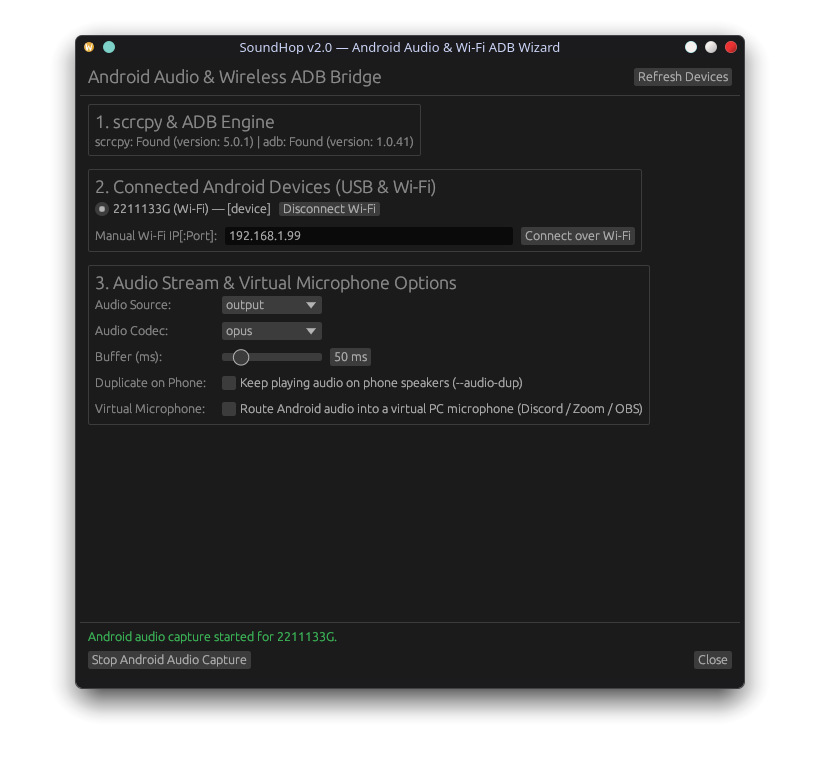
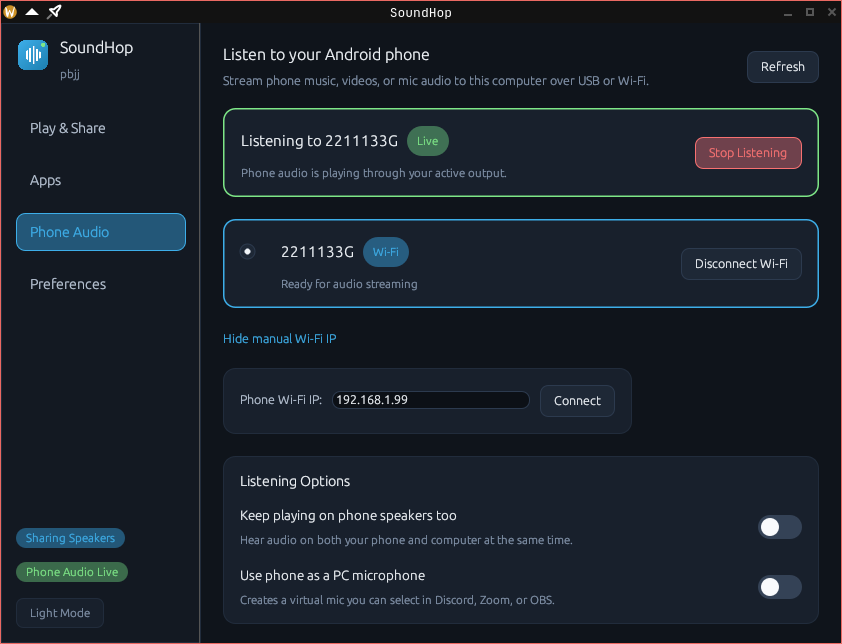
docs(readme): update README and screenshots for v2.1.0 Control Center GUI

diff --git a/README.md b/README.md
@@ -4,77 +4,95 @@
 
 # <img width="48" height="48" alt="com github SoundHop" src="https://github.com/teufortressIndustries/soundhop/blob/main/assets/soundhop.png?raw=true" /> SoundHop
 
-[**Download Latest AppImage (Releases)**](https://github.com/teufortressIndustries/soundhop/releases) • [**Quickstart**](#quickstart) • [**Interactive TUI**](#interactive-terminal-ui-tui) • [**CLI Commands**](#cli-command-reference) • [**Requirements**](#requirements) • [**Building from Source**](#building-from-source) • [**How It Works**](#how-it-works-under-the-hood)
+[**Download Latest AppImage (Releases)**](https://github.com/teufortressIndustries/soundhop/releases) • [**Quickstart**](#quickstart) • [**Control Center & Tray**](#control-center-gui--system-tray) • [**Interactive TUI**](#interactive-terminal-ui-tui) • [**CLI Commands**](#cli-command-reference) • [**Requirements**](#requirements) • [**Building from Source**](#building-from-source) • [**How It Works**](#how-it-works-under-the-hood)
 
 ---
 
-Ever wanted to stream audio from your laptop to your desktop speakers across the room, or beam audio from a workstation to an HTPC hooked up to your sound system?
+Ever wanted to stream audio from your laptop to your desktop speakers across the room, broadcast music to multiple rooms at once, or turn your computer into a wireless speaker for another device or Android phone?
 
 PulseAudio and PipeWire already implement native TCP network streaming modules (`module-native-protocol-tcp` and `module-tunnel-sink`), but setting them up by hand is tedious:
 - Manually looking up peer LAN IP addresses and remembering raw `pactl load-module` arguments.
-- Handling firewall rules (`4713/tcp`, `47777/udp`).
+- Handling firewall rules (`4713/tcp`, `47777/udp`, mDNS `5353/udp`).
 - Live audio streams not automatically moving over when a tunnel connects.
 - Ghost tunnels and frozen audio when a remote laptop suspends or Wi-Fi drops.
 
-**SoundHop** fixes this. It wraps PipeWire and PulseAudio in an automatic, self-healing workflow with zero-configuration LAN discovery, an intuitive desktop system tray for KDE Plasma and GNOME (**the preferred and easiest way to use SoundHop**), and a full-featured CLI (`soundhop`) for headless environments and scripts.
+**SoundHop** fixes this. Written in pure Rust, it wraps PipeWire / PulseAudio (and Windows WASAPI/`cpal`) in an automatic, self-healing workflow with zero-configuration LAN discovery, a unified **Control Center GUI** (`soundhop gui`) paired with a native **desktop system tray** (`soundhop tray`), a live **Terminal UI** (`soundhop tui`), and a full-featured **CLI** (`soundhop`) for headless environments and scripts.
 
 ---
 
 ## Quickstart
 
-The primary and recommended way to use SoundHop is through the native desktop system tray widget. It runs seamlessly on KDE Plasma, GNOME, and other Linux desktop environments.
+The primary and recommended way to use SoundHop is through the **Control Center GUI** and **native desktop system tray**, which run seamlessly on KDE Plasma, GNOME, and other Linux desktop environments (as well as Windows 10/11).
 
 ### 1. Launch SoundHop
 Download and run the standalone **[SoundHop AnyLinux AppImage](https://github.com/teufortressIndustries/soundhop/releases)** (no installation, host libraries, or FUSE required — works on glibc, musl, and non-FHS distros) or run:
 ```bash
-soundhop tray
+soundhop gui
 ```
-*(Or launch **SoundHop** directly from your desktop application launcher)*.
+*(Or launch **SoundHop** directly from your desktop application launcher. On first run, a guided 3-step onboarding wizard helps you set your device name, speaker sharing role, firewall rules, and login autostart. Running `soundhop gui` automatically ensures the background system tray & daemon are running.)*
 
 ### 2. Receiver (e.g. your PC or sound system with good speakers)
-Click the SoundHop tray icon and check **Share this device's speakers**.
+Open **Play & Share** in the Control Center (or click the SoundHop tray icon) and enable **Share this device's speakers** (or **Share My Speakers** in the tray).
 
 ### 3. Sender (e.g. your laptop)
-Click the SoundHop tray icon, hover over **Play audio on**, and select your target machine (e.g. `pbjj (192.168.1.174:4713)`).
+In **Play & Share**, click **Play Here** next to your target speaker (e.g. `pbjj`), or open the tray menu and select it under **Play Audio On**.
 Active playback streams (Spotify, Firefox, mpv, games) immediately switch over to the remote speakers.
 
-To stop streaming and restore audio back to local speakers or headphones at any time, click **Play audio on > This device (disconnect)** or **Disconnect remote audio**.
+To stop streaming and restore audio back to local speakers or headphones at any time, click **Disconnect** in the Control Center or select **This Device (Local Speakers)** in the tray menu.
 
-| Sender (Laptop — Fedora KDE) | Receiver (PC — CachyOS KDE) |
+---
+
+## Control Center GUI & System Tray
+
+SoundHop v2.1 introduces the unified **Control Center** (`soundhop gui`) alongside an upgraded **System Tray** (`soundhop tray`) with live RTT latency readouts, status-badged icons, and Dark/Light/System themes.
+
+### Control Center (`soundhop gui`)
+
+| Sender (Laptop — Playing on `pbjj`) | Receiver (PC — Sharing Speakers & Phone Audio) |
 | :---: | :---: |
-| ![SoundHop Tray GUI on Laptop (Fedora KDE)](docs/screenshots/tray-sender-laptop.png) | ![SoundHop Tray GUI on PC (CachyOS KDE)](docs/screenshots/tray-receiver-pc.png) |
-| *Laptop (`nut`) playing audio remotely on `pbjj (192.168.1.174:4713)`* | *PC (`pbjj`) sharing its speakers with **Share this device's speakers** enabled* |
+| ![SoundHop Control Center Playing on Remote Speaker](docs/screenshots/gui-listening-laptop.png) | ![SoundHop Control Center Sharing Speakers](docs/screenshots/gui-sharing-pc.png) |
+| *Laptop (`nut`) streaming to `pbjj` with master volume slider, live wave indicator, and firewall helper* | *PC (`pbjj`) with **Share this device's speakers** active and `Phone Audio Live` status badge* |
 
-### Android Audio Streaming & GUI Settings
+The Control Center is organized into four sidebar views:
+- **Play & Share**: View your active output & master volume/mute bar, connect to one or multiple LAN speakers (**Multiple speakers** multi-room mode with optional local playback), connect manually by IP/hostname, toggle **Share this device's speakers** (with one-click **Allow in Firewall** detection), and switch network microphone pass-through.
+- **Apps**: Switch between **Send all apps** and **Only picked apps** default routing, toggle individual playing apps between remote and local output on the fly, and save permanent rules with **Always Remember**.
+- **Phone Audio**: Stream audio from Android devices over USB or Wi-Fi using official `scrcpy` (installed on-demand in one click, SHA-256 verified), switch USB devices to wireless ADB, connect by manual Wi-Fi IP, optionally keep audio playing on phone speakers, or expose the phone as a virtual PC microphone (`SoundHop_Android_Mic`).
+- **Preferences**: Switch between **Dark**, **Light**, and **System** themes, rename your device, toggle **Auto-connect** and **Start SoundHop when I log in**, manage **Privacy & Pairing** (**Home Wi-Fi**, **PIN-Paired Devices Only**, or **System Audio Cookie**) with a built-in pairing code generator, and expand **Advanced Audio, Network & Diagnostics** for buffer latency presets (`50 ms` / `150 ms` / `300 ms`), ports, live RTT/jitter/dBFS telemetry, and replaying the welcome tour.
 
-SoundHop also provides dedicated GUI dialogs accessible directly from the tray menu:
-
-| Android Audio Capture | Preferences & Audio Buffer Tuning |
+| Phone Audio (`scrcpy` Android Bridge) | Preferences & Privacy Pairing |
 | :---: | :---: |
-| ![Android Audio Capture Window](docs/screenshots/android-audio-capture.png) | ![SoundHop Settings Window](docs/screenshots/settings.png) |
-| *Stream mobile audio via USB or Wi-Fi with configurable codecs, audio sources & latency* | *Configure device identity, buffer latency presets, and LAN security* |
+| ![SoundHop Control Center Phone Audio View](docs/screenshots/android-audio-capture.png) | ![SoundHop Control Center Preferences and Pairing](docs/screenshots/settings.png) |
+| *Live Wi-Fi Android audio capture with manual IP connect, duplicate playback, and virtual PC mic toggles* | *Privacy modes and PIN/PSK device pairing with 12-character code generator* |
 
-- **Capture Android audio...**: Effortlessly stream Android audio directly to your Linux speakers using official `scrcpy` over USB or Wi-Fi. Select your preferred codec (AAC, Opus, FLAC, Raw PCM), audio source (system output, app playback, or mic), and buffer latency.
-- **Settings...**: Customize your broadcast device name, audio port, RFC1918 subnet security, PipeWire buffer latency presets, automatic stream handoff, and scrcpy defaults.
+### System Tray (`soundhop tray`)
+
+| Sender Tray Menu (`nut` → `pbjj`) | Receiver Tray Menu (`pbjj` Sharing) |
+| :---: | :---: |
+| ![SoundHop System Tray Menu on Sender Laptop](docs/screenshots/tray-listening-laptop.png) | ![SoundHop System Tray Menu on Receiver PC](docs/screenshots/tray-sharing-pc.png) |
+| *Green badge & checked `pbjj (12 ms)` under **Play Audio On**, with quick submenus for Apps, Volume, Mic, and Phone Audio* | *Blue badge (`Ready • Sharing my speakers`) showing `Share My Speakers` active and `nut (8 ms)` available* |
+
+- **Dynamic Tray Status Badges**: Color-coded icon badge indicates Idle (no badge), Sharing (blue), Connected (green), Multi-Room (purple), or Error (red).
+- **Quick Controls**: Open the Control Center (`Open SoundHop`), switch speakers or toggle **Multiple Speakers**, route per-app audio, adjust volume/mute, toggle microphone pass-through, or jump straight to **Phone Audio...** and **Preferences...**.
+- **Seamless AppImage Upgrades**: Launching a newer SoundHop AppImage automatically replaces any stale background daemon/tray/GUI instance across versions, updates existing `systemd` user service (`soundhop.service`) and XDG autostart (`soundhop-tray.desktop`) paths to the new AppImage, and shows a confirmation toast in the GUI.
 
 ---
 
 ## Interactive Terminal UI (TUI)
 
-Prefer managing audio from your terminal, running on a headless workstation over SSH, or keeping a live dashboard in a tmux pane? SoundHop v2.0 features a rich terminal interface powered by `ratatui` and `crossterm`:
+Prefer managing audio from your terminal, running on a headless workstation over SSH, or keeping a live dashboard in a tmux pane? SoundHop features a rich terminal interface powered by `ratatui` and `crossterm`:
 
 ```bash
 soundhop tui
 ```
-*(Launching `soundhop` with no arguments in any interactive terminal opens the TUI automatically)*.
+*(Launching `soundhop` with no arguments in any interactive terminal opens the TUI automatically).*
 
 ![SoundHop Interactive Terminal UI (TUI)](docs/screenshots/soundhop-tui.png)
-*SoundHop v2.0 Terminal UI (`soundhop tui`) with live LAN peer discovery, multi-room broadcast selection, active tunnel status, and real-time audio VU meter + network RTT/jitter telemetry.*
+*SoundHop Control Dashboard (`soundhop tui`) with live LAN peer discovery, multi-room selection, active device/privacy status, and real-time RTT/jitter + audio dBFS telemetry.*
 
-- **Tab 1: Discovered Speakers & Multi-Room**: Navigate with arrow keys or `j`/`k`, press `Space` to select multiple speakers for simultaneous multi-room broadcast, `l` to toggle local speakers in sync, and `Enter` to connect or `d` to disconnect.
-- **Tab 2: Per-App Audio Mixer & Persistent Routing**: Route individual applications (`Spotify`, `Firefox`, `mpv`) between remote and local sinks on the fly, or press `p` to save permanent routing rules to `config.toml`.
-- **Tab 3: Network Microphone & Android Bridge**: Toggle bi-directional microphone pass-through (`s` to stream mic, `r` to receive peer mic, `o` to stop) or start/stop Android audio capture (`a`).
-- **Live VU Gauge & Network Telemetry**: Bottom gauge features a high-frequency stereo Peak/RMS VU meter with dBFS readout, and continuous network round-trip time (RTT) and jitter tracking in milliseconds.
+- **Tab 1 (`[1] Speakers`)**: Navigate with arrow keys or `j`/`k`, press `Space` to select multiple speakers for simultaneous multi-room broadcast, `l` to toggle local speakers in sync, `Enter` to connect, `d` to disconnect, `s` to toggle sharing, and `r` to refresh.
+- **Tab 2 (`[2] Apps`)**: Route individual applications (`Spotify`, `Firefox`, `mpv`) between remote and local sinks on the fly, or press `p` to save permanent routing rules to `config.toml`.
+- **Tab 3 (`[3] Phone & Mic`)**: Toggle bi-directional microphone pass-through (`s` to stream mic, `r` to receive peer mic, `o` to stop) or start/stop Android audio capture (`a`).
+- **Audio Level & Connection Health**: Bottom bar displays continuous network round-trip time (RTT) and jitter in milliseconds alongside real-time audio level in dBFS (`+`/`-` for volume, `m` to mute).
 
 ---
 
@@ -87,7 +105,7 @@ Turn on audio sharing:
 ```bash
 soundhop share on
 ```
-*(If you have an active firewall like firewalld or ufw, run `soundhop firewall open`)*.
+*(If you have an active firewall like firewalld or ufw, run `soundhop firewall open`, or run `soundhop setup` for guided first-time setup).*
 
 ### 2. Sender (Laptop / Workstation)
 Connect and pick the target machine:
@@ -109,15 +127,16 @@ Audio falls straight back to your local speakers or headphones without missing a
 
 ---
 
-## What's New in v2.0 (Pure Rust Rewrite)
+## What's New in v2.x (Pure Rust Rewrite & v2.1 Control Center)
 
-SoundHop v2.0 is a ground-up rewrite in pure Rust (`soundhop-core`, `soundhop-gui`, `soundhop-cli`), eliminating the Python & Qt runtime overhead while introducing five flagship capabilities:
+SoundHop v2.x is a ground-up rewrite in pure Rust (`soundhop-core`, `soundhop-gui`, `soundhop-cli`), eliminating Python & Qt runtime overhead while introducing:
 
-1. **Interactive Terminal UI (`soundhop tui` / default when run with no args in a TTY)**: Live `ratatui` dashboard with Multi-Room peer toggles, Per-App Audio Mixer, Mic & Android Bridge controls, and a real-time stereo VU meter + network RTT/jitter bar.
-2. **Multi-Room / Simultaneous Broadcast Audio (`soundhop connect PeerA PeerB --combine --keep-local`)**: Stream audio to multiple LAN speakers at once (plus optionally keep your local speakers playing in sync) via `module-combine-sink` on Linux and multi-peer TCP fan-out on Windows.
-3. **Persistent Per-App Routing Rules (`soundhop route Spotify --save`)**: Save `always_remote` and `always_local` application rules in `config.toml` (`[routing]`) so your music player automatically hops to remote speakers while system alerts or browsers stay local.
-4. **PIN / Pre-Shared Key (PSK) Pairing & HMAC-SHA256 Authentication (`soundhop pair <peer> --pin 123456`)**: Cryptographically sign UDP discovery beacons with HMAC-SHA256 and deterministically synchronize a 256-byte PulseAudio auth cookie across paired machines.
-5. **Real-Time Audio Level Meter & Network Latency / Jitter Telemetry**: Live Peak/RMS/dBFS audio metering and rolling TCP/UDP RTT & jitter (`ms`) tracking in both the TUI and the `egui` Settings dialog.
+1. **Unified Control Center GUI (`soundhop gui`) & Onboarding (v2.1)**: Modern `egui` Control Center with 4 sidebar tabs (**Play & Share**, **Apps**, **Phone Audio**, **Preferences**), Dark/Light/System themes, guided 3-step first-run onboarding, upgraded tray integration, and automatic cross-version AppImage upgrade handoff & autostart/systemd path syncing.
+2. **Interactive Terminal UI (`soundhop tui`)**: Live `ratatui` dashboard with Multi-Room peer toggles, App Mixer & persistent rules, Phone & Mic controls, and real-time audio dBFS + network RTT/jitter telemetry.
+3. **Multi-Room / Simultaneous Broadcast Audio (`soundhop connect PeerA PeerB --combine --keep-local`)**: Stream audio to multiple LAN speakers at once (plus optionally keep your local speakers playing in sync) via `module-combine-sink` on Linux and multi-peer TCP fan-out on Windows.
+4. **Persistent Per-App Routing Rules (`soundhop route Spotify --save`)**: Save `always_remote` and `always_local` application rules (plus `all` vs `selective` default mode) in `config.toml` (`[routing]`).
+5. **Hardened PIN / Pre-Shared Key (PSK) Pairing & HMAC-SHA256 Auth (`soundhop pair`)**: 60,000-iteration PBKDF2-HMAC-SHA256 key derivation, 12-character pairing codes (or 6+ char custom codes), constant-time HMAC-SHA256 signed UDP discovery beacons, `0o600` 256-byte PulseAudio cookie & IPC socket permissions, and SHA-256 verified `scrcpy` tool downloads.
+6. **Real-Time Audio Telemetry & AnyLinux Portability**: Live Peak/RMS/dBFS audio metering, rolling RTT & jitter tracking, and universal AnyLinux AppImages (`quick-sharun` + `uruntime`/DwarFS) running across glibc, musl, non-FHS, and non-FUSE Linux environments.
 
 ---
 
@@ -126,7 +145,7 @@ SoundHop v2.0 is a ground-up rewrite in pure Rust (`soundhop-core`, `soundhop-gu
 | Component | Minimum Version | Notes |
 | :--- | :--- | :--- |
 | **Linux / Windows** | Linux 5.x+ / Windows 10+ | Native static/dynamic Rust binary (`soundhop`) |
-| **Audio Server** | PipeWire 0.3+ / PulseAudio 14+ / WASAPI | `pactl` on Linux; native WASAPI loopback & playback on Windows |
+| **Audio Server** | PipeWire 0.3+ / PulseAudio 14+ / WASAPI | `pactl` on Linux; native WASAPI/`cpal` loopback & playback on Windows |
 | **Rust Toolchain** | `rustc` / `cargo` 1.80+ | Only required when building from source |
 
 ---
@@ -140,81 +159,89 @@ SoundHop v2.0 is a ground-up rewrite in pure Rust (`soundhop-core`, `soundhop-gu
 │                                │                                │                                │
 │  • soundhop daemon             │                                │  • soundhop daemon             │
 │  • module-tunnel-sink          │ ═════════════════════════════► │  • module-native-protocol-tcp  │
-│  • Auto-routes active streams  │      Raw TCP PCM Audio :4713   │  • Subnet ACL (192.168.x.x)    │
+│  • Auto-routes active streams  │      Raw TCP PCM Audio :4713   │  • Subnet ACL / PSK / Cookie   │
 └────────────────────────────────┘                                └────────────────────────────────┘
 ```
 
-1. **Discovery**: Each node runs a tiny background supervisor. When sharing is enabled, it broadcasts a JSON beacon over UDP port `47777` (with automatic mDNS `_soundhop._tcp` fallback). Peers discover each other in under two seconds.
-2. **Audio Transport**: Native PCM audio travels over TCP port `4713`. Sender loads `module-tunnel-sink` specifying `rate=48000 channels=2 format=s16le` to eliminate software resampling degradation.
-3. **Stream Handover**: SoundHop inspects active sink-inputs (`pactl list sink-inputs`) and moves running audio apps onto the remote sink, setting it as default.
-4. **Resilience & Sleep Supervision**: If the receiving device goes to sleep, closes its lid, or drops off Wi-Fi, the supervisor senses TCP timeout, cleanly unloads the dead tunnel, and restores sound to your local output. Once the receiver wakes back up, SoundHop can automatically reconnect.
+1. **Discovery**: Each node runs a lightweight background daemon. It broadcasts a JSON beacon over UDP port `47777` (with automatic mDNS `_soundhop._tcp.local.` fallback) and optionally signs beacons with HMAC-SHA256 when PIN/PSK pairing is enabled.
+2. **Audio Transport**: Native PCM audio travels over TCP port `4713`. On Linux, the sender loads `module-tunnel-sink` specifying `rate=48000 channels=2 format=s16le` to avoid resampling degradation; on Windows, SoundHop uses native WASAPI/`cpal` loopback capture and TCP playback.
+3. **Stream Handover**: SoundHop inspects active sink-inputs (`pactl list sink-inputs`) and moves running audio apps onto the remote sink (respecting `[routing]` rules), setting it as default when configured.
+4. **Resilience & Sleep Supervision**: If the receiving device goes to sleep, closes its lid, or drops off Wi-Fi, the supervisor detects TCP timeout, cleanly unloads the dead tunnel, and restores sound to your local output. Once the receiver wakes back up, SoundHop can automatically reconnect.
 5. **DSP Awareness**: SoundHop checks for active DSP suites like **EasyEffects**, **JamesDSP**, and **NoiseTorch** to warn if virtual sink re-routing could add unintended latency.
 
 ---
 
 ## CLI Command Reference
 
-### Everyday Commands
+### Everyday & GUI Commands
 ```bash
-soundhop status                 # Show current connection, sharing status, discovered peers, and sinks
-soundhop status --json          # Raw JSON output for Waybar, Polybar, or scripts
-soundhop discover               # Scan LAN for online SoundHop nodes
-soundhop connect [name|ip]      # Connect interactively or directly by hostname / IP
-soundhop connect --with-mic     # Connect and enable microphone pass-through
-soundhop connect --host 192.168.1.50 --port 4713
-soundhop disconnect             # Drop remote tunnel and restore local sound output
-soundhop share <on|off|status>  # Enable or disable receiving audio from other devices
-soundhop tray                   # Launch desktop system tray icon (KDE Plasma / GNOME)
+soundhop                        # Open interactive TUI (when run in a terminal)
+soundhop gui                    # Launch Control Center GUI (starts background tray if needed)
+soundhop tray                   # Launch native OS system tray icon & background daemon
 soundhop tui                    # Open interactive terminal UI dashboard
+soundhop setup                  # Guided first-time CLI setup (name, sharing, firewall, service)
+soundhop status                 # Show current connection, sharing status, peers, and telemetry
+soundhop status --json          # Raw JSON output for Waybar, Polybar, or scripts
+soundhop discover               # Scan LAN for online SoundHop nodes (with RTT latency)
+soundhop connect [targets...]   # Connect interactively, by name/IP, or multi-room
+soundhop connect PeerA PeerB --combine --keep-local
+soundhop connect 192.168.1.50:4713 --latency 100 --remember
+soundhop disconnect             # Drop remote tunnel / multi-room group and restore local sound
+soundhop share <on|off|status>  # Enable or disable receiving audio from other devices
+soundhop pair generate          # Generate a random 12-character pairing code
+soundhop pair <peer> --pin CODE # Pair with a peer using a shared PIN/passphrase (6+ chars)
+soundhop pair status            # Show pairing & security mode status (`clear` to reset)
 ```
 
 ### Stream Routing, Mic Pass-Through & Volume Sync
 ```bash
 soundhop apps                   # List active audio applications and stream routing
 soundhop route spotify          # Route Spotify to remote speakers
-soundhop route firefox --local  # Keep Firefox audio playing on local speakers
-soundhop unroute spotify        # Return Spotify to default output
-soundhop mic <on|off|status>    # Toggle or check remote microphone pass-through
+soundhop route spotify --save   # Persist always-remote routing rule in config.toml
+soundhop route firefox --save --local  # Always keep Firefox audio on local speakers
+soundhop unroute spotify        # Return Spotify to local speakers (`--all`, `--remove-rule`)
+soundhop mic <send|receive|off|status> # Toggle or check network microphone pass-through
 soundhop volume                 # Show volume and mute status with remote sync
-soundhop volume 80              # Set output volume to 80% (syncs to remote receiver)
-soundhop volume mute            # Mute output
+soundhop volume 80              # Set output volume to 80% (`0-150`, `+10`, `-10`)
+soundhop volume toggle          # Toggle mute (`mute`, `unmute`, `toggle`)
 ```
 
-### Android Audio Capture (scrcpy)
-Capture and stream audio from Android devices directly to your Linux speakers over Wi-Fi or USB.
+### Android Audio Capture (`scrcpy`)
+Capture and stream audio from Android devices directly to your speakers over Wi-Fi or USB.
 ```bash
-soundhop android                # Interactive setup wizard & device pairing
-soundhop android 192.168.1.99   # Connect directly to a specific phone IP or serial
-soundhop android history        # View paired Android device connection history
-soundhop android clear-history  # Clear device history
+soundhop android wizard         # Open Android Audio Bridge UI (`gui`)
+soundhop android install        # Download & verify standalone official scrcpy + adb (SHA-256)
+soundhop android devices        # List detected Android devices via ADB
+soundhop android wifi           # Switch a plugged-in USB phone to wireless Wi-Fi ADB mode
+soundhop android connect <ip>   # Connect to an Android device over Wi-Fi ADB
+soundhop android start [target] # Start capture (`--source`, `--codec`, `--buffer`, `--as-mic`)
 soundhop android stop           # Stop running audio capture session
-soundhop android status         # Show scrcpy / adb tool paths and active sessions
-soundhop android devices        # List detected Android devices and Android versions
-soundhop android encoders       # List hardware/software audio encoders supported by your phone
-soundhop android wifi           # Switch a plugged-in USB phone to wireless Wi-Fi mode
-soundhop android install        # Download & install standalone official scrcpy (zero-bloat, on-demand)
+soundhop android status         # Show scrcpy / adb tool paths and active session
+soundhop android disconnect     # Disconnect Wi-Fi ADB session
 ```
 
 ### Automation & Services
 ```bash
-soundhop auto <on|off>          # Toggle automatic reconnection to your last paired machine
-soundhop auto pause             # Temporarily pause auto-reconnect (e.g. while on public Wi-Fi)
-soundhop auto resume            # Resume auto-reconnect
-soundhop service install        # Install and enable systemd user unit (soundhop.service)
-soundhop service status         # Check systemd service status
-soundhop service restart        # Restart user daemon
+soundhop auto <on|off|status>   # Toggle or inspect automatic reconnection
+soundhop auto prefer <peer>     # Set preferred auto-connect peer
+soundhop service install        # Install and enable systemd user unit & tray autostart
+soundhop service status         # Check systemd user service status
+soundhop service restart        # Restart user daemon (syncs AppImage path if needed)
+soundhop stop                   # Stop running background daemon and disconnect sessions
+soundhop logs                   # View recent daemon log lines (`-n 100`)
 ```
 
-### Diagnostics & Network
+### Diagnostics, Config & Network
 ```bash
-soundhop doctor                 # Self-test PipeWire/PulseAudio, sockets, pactl, and firewalls
-soundhop bug-report             # Dump sanitized markdown diagnostics for GitHub issues
-soundhop bug-report --open      # Generate report and open pre-filled GitHub issue in browser
-soundhop firewall <open|close|status> # Manage rules for firewalld (Fedora) or ufw (Ubuntu)
+soundhop doctor                 # Self-test audio backend, network, daemon, firewall, and mounts
+soundhop doctor --fix           # Auto-fix orphaned modules, firewall, service & stale mounts
+soundhop bug-report             # Print sanitized markdown diagnostics for GitHub issues
+soundhop firewall <status|open> # Inspect or open rules for firewalld (Fedora) or ufw (Ubuntu)
+soundhop config <show|path|get|set|reset> # View or modify `~/.config/soundhop/config.toml`
 ```
 
 ### Shell Completions
-Tab completion is available for Bash, Zsh, and Fish:
+Tab completion is available for Bash, Zsh, Fish, and PowerShell:
 ```bash
 # Fish (CachyOS / Arch default):
 soundhop completions fish > ~/.config/fish/completions/soundhop.fish
@@ -224,6 +251,9 @@ soundhop completions bash > ~/.local/share/bash-completion/completions/soundhop
 
 # Zsh:
 soundhop completions zsh > ~/.zsh/completion/_soundhop
+
+# PowerShell:
+soundhop completions powershell > soundhop.ps1
 ```
 
 ---
@@ -244,7 +274,7 @@ cargo build --release --workspace
 # Binary is emitted to target/release/soundhop
 ```
 
-### 3. Run unit & integration tests
+### 3. Run formatting, lints, and tests
 ```bash
 cargo fmt --all -- --check
 cargo clippy --workspace --all-targets -- -D warnings
@@ -261,24 +291,36 @@ On non-Arch hosts this automatically builds inside an Arch Linux container using
 
 ## Configuration & Tuning
 
-Configuration is stored in `~/.config/soundhop/config.toml` (and can be edited directly or through `soundhop config set <key> <val>`):
+Configuration is stored in `~/.config/soundhop/config.toml` (and can be edited directly, in the Control Center **Preferences**, or via `soundhop config set <key> <val>`):
 
 ```toml
 [device]
-name = "Fedora-Desktop"          # Display name broadcasted to other devices
+name = "Fedora-Desktop"         # Display name broadcasted to other devices
 
 [sharing]
-enabled = false                 # Whether this device accepts incoming audio
-security = "trusted-lan"        # "trusted-lan" (RFC1918 subnets), "cookie" (auth cookie), or "open"
+enabled = true                  # Whether this device accepts incoming audio
+port = 4713                     # TCP audio port
+security = "trusted-lan"        # "trusted-lan" (Home Wi-Fi), "psk" (PIN-Paired), "cookie", or "open"
 
 [connection]
-auto_connect = true             # Automatically reconnect to last paired device when seen
+auto_connect = true             # Automatically reconnect to preferred peer when online
 disconnect_on_quit = true       # Drop remote tunnel and restore local audio when tray app exits
-latency_ms = 0                  # 0 = automatic default (or 50 for low-latency, 100 balanced, 200 Wi-Fi buffer)
+keep_local_output = false       # Keep local speakers active by default in Multi-Room mode
+# latency_ms = 150              # Optional buffer latency override in ms (50 low, 150 balanced, 300 stable)
+
+[routing]
+default_mode = "all"            # "all" (send all apps) or "selective" (only picked apps)
+always_remote = []              # Apps always routed to remote speakers
+always_local = []               # Apps always kept on local speakers
 
 [discovery]
-port = 47777                    # UDP broadcast discovery port
-mdns = true                     # Enable mDNS fallback browsing
+udp = true                      # UDP broadcast LAN discovery
+mdns = true                     # mDNS (_soundhop._tcp.local.) discovery
+port = 47777                    # UDP discovery port
+
+[ui]
+theme = "dark"                  # "dark", "light", or "system"
+notifications = true            # Desktop connection notifications
 ```
 
 *(SoundHop automatically tracks your hardware outputs and restores audio to your previous default sink on disconnect).*
@@ -307,21 +349,25 @@ mdns = true                     # Enable mDNS fallback browsing
   - Disconnect-on-quit toggle, buffer latency presets, and DSP detection (EasyEffects)
   - Portable AppImage & containerized multi-distro build pipeline
 - [x] **v1.1**:
-  - **Android Support (scrcpy)**: Capture and listen to the audio from your Android devices over USB or Wi-Fi.
-  - **Windows Support (EXPERIMENTAL)**: Experimental support for Windows OS.
+  - **Android Support (`scrcpy`)**: Capture and listen to audio from Android devices over USB or Wi-Fi.
+  - **Windows Support**: Native Windows OS support.
 - [x] **v1.2**:
   - **Per-Application Stream Routing**: Direct specific apps (e.g. Spotify or Firefox) to remote speakers without moving your whole desktop audio.
   - **Microphone Pass-Through**: Stream microphone input back to the sender for remote calls and Discord.
   - **Remote Volume Sync**: Control receiver volume directly from the sender's media keys.
   - **Android Auto-Discovery & History**: ZeroConf mDNS discovery for Android Wireless Debugging and persistent device history for 1-click reconnects.
-- [x] **v2.0 (Current)**:
+- [x] **v2.0**:
   - **Full Rewrite in Rust**: Ground-up rewrite in pure Rust (`soundhop-core`, `soundhop-gui`, `soundhop-cli`).
   - **AnyLinux AppImage**: Universal `quick-sharun` + `uruntime`/DwarFS AppImage supporting glibc, musl, non-FHS distros, and non-FUSE environments.
   - **Interactive Terminal UI**: (`soundhop tui`) using `ratatui` + `crossterm`.
   - **Multi-Room / Broadcast Audio**: `soundhop connect PeerA PeerB --combine --keep-local`.
   - **Persistent Per-App Routing Rules**: `[routing]` in `config.toml` & `soundhop route --save`.
-  - **PIN / PSK**: Pre-Shared Key Pairing & HMAC-SHA256 Authentication (`soundhop pair`).
-  - **Real-Time Audio Telemetry**: Audio Peak, RMS Level Meter & Network RTT, Jitter Telemetry.
+  - **PIN / PSK Pairing & Telemetry**: Pre-Shared Key pairing with HMAC-SHA256 beacons (`soundhop pair`) plus live Peak/RMS/dBFS and RTT/jitter telemetry.
+- [x] **v2.1 (Current)**:
+  - **Unified Control Center GUI (`soundhop gui`)**: Modern `egui` desktop app with Play & Share, Apps, Phone Audio, and Preferences views, Dark/Light/System themes, and guided 3-step first-run onboarding.
+  - **Upgraded System Tray (`soundhop tray`)**: Color-coded status badges, live peer RTT readouts, Multi-Room submenu, and direct Control Center tab launchers.
+  - **Seamless AppImage Upgrade Handoff**: Automatic cross-version daemon/tray/GUI replacement, auto-synced `systemd` unit & XDG autostart AppImage paths with GUI toast feedback, and safe `doctor --fix` mount cleanup.
+  - **Security Hardening**: 60,000-iteration PBKDF2-HMAC-SHA256 pairing KDF, `0o600` PulseAudio cookie & IPC sockets, SHA-256 verified `scrcpy` downloads, and hardened Windows WASAPI/`cpal` backend.
 
 ---
 
